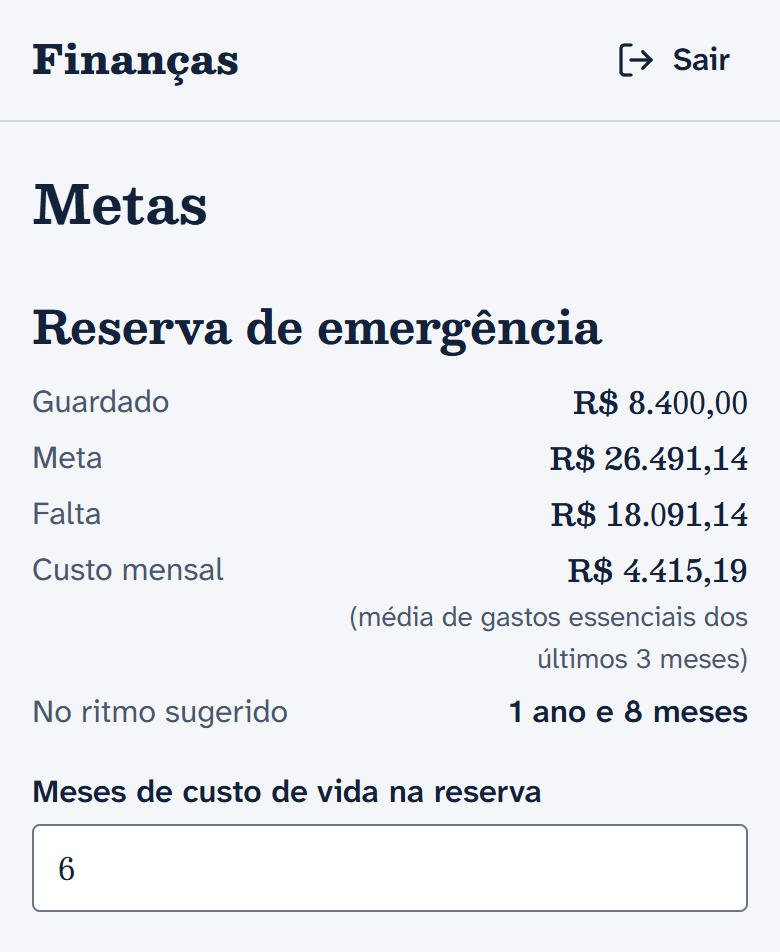
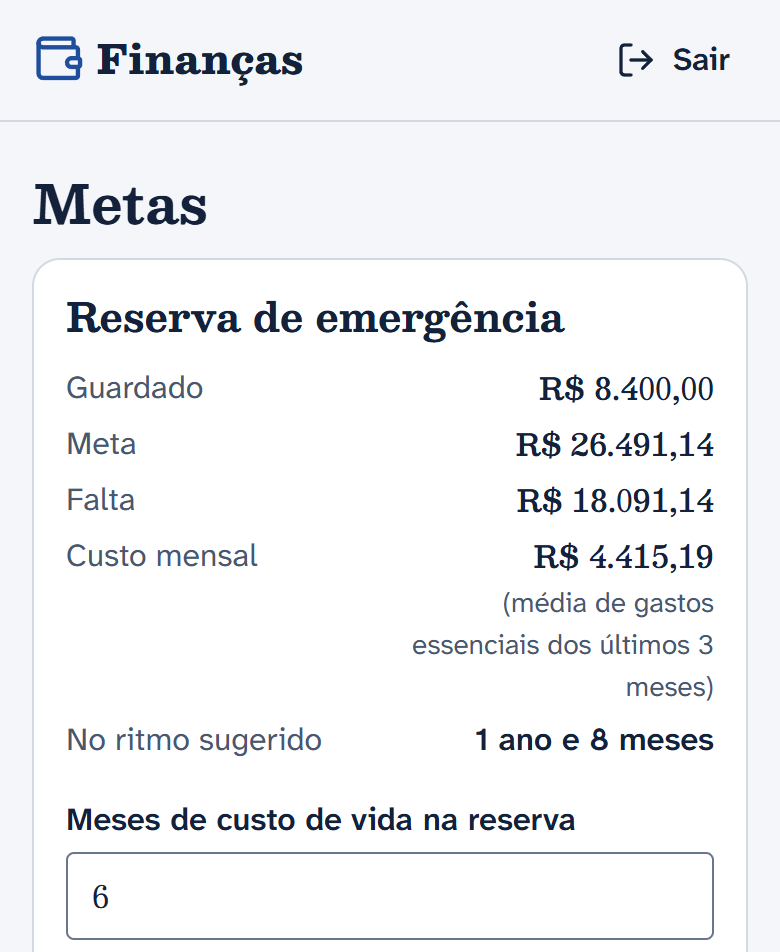
Registra o menu lateral e os painéis na documentação e refaz as capturas
As capturas do README e a descrição do visual ainda mostravam o menu no
topo e a tela sem painéis.

- docs/img: as oito capturas refeitas com os dados de exemplo, no mesmo
  enquadramento, nos temas claro e escuro, agora com o menu lateral, o
  cartão de saldo e os painéis.
- README: a seção "Visual" descreve painéis, cartão, menu lateral e
  barra do celular; o texto alternativo da captura da visão geral
  acompanha a tela nova.
- plano.md: seção "Menu lateral e painéis", com as três opções
  mostradas, a escolha, os tokens novos, o contraste medido e a
  verificação (270 testes JUnit e 35 de JavaScript, roteiros no
  Chrome, Lighthouse no celular e no computador, /security-review sem
  achados).
- entrega-final.md: resumo da mudança com os commits.

diff --git a/docs/plano.md b/docs/plano.md
@@ -324,3 +324,46 @@ Você achou que as cores do livro-caixa esverdeado não ficaram boas, preferiu t
 - As capturas do README (`docs/img`) foram refeitas com o mesmo enquadramento, nos dois temas.
 - `/security-review` sem achados.
 - Testado só no Chrome.
+
+## Menu lateral e painéis (14/10/2026)
+Você pediu o menu do lado esquerdo e botões mais estilizados, e disse que ainda achava o app "muito simples". A causa principal era a regra "hierarquia sem caixas", que você tinha mantido na "Noite azul": nada separava as partes da tela além de linhas finas.
+- Três estilos foram aplicados nas telas de verdade, todos já com o menu lateral, e comparados lado a lado numa página local: "A · Painéis", "B · Cartão de saldo" e "C · Painéis + cartão". Você escolheu a **C** e manteve a barra embaixo no celular (a outra opção era uma gaveta à esquerda).
+- A regra do CLAUDE.md mudou: hierarquia por tamanho, peso e espaço, com painéis só para agrupar partes da tela, de pesos diferentes, com borda fina e sem sombra. Continuam proibidos a grade de cards iguais com sombra e ícone em círculo, o degradê e o glassmorphism.
+
+**Menu lateral** (`e49b62f`):
+- A partir de 1024 px, o cabeçalho vira um menu fixo à esquerda (15rem), da altura da janela, com fundo um tom abaixo do da página. As telas ficam em três grupos com nome ("O mês": visão geral, lançamentos e contas fixas; "Planejar": planejamento, metas e histórico; "Investir": investimentos e simulador), Ajustes separado e "Sair" no pé.
+- Cada tela tem um ícone do Lucide (lucide-static 1.56.0) ao lado do nome. A tela atual ganha fundo azul suave, a cor de destaque e um traço à esquerda.
+- No celular nada muda além dos ícones na folha "Mais".
+
+**Visão geral** (`948bc78`):
+- Os três números ficam lado a lado no topo. Uma container query no próprio bloco decide quando (34rem ou mais), e o tamanho dos números acompanha a largura dele (`cqi`), para caber também em 1024 px com o menu.
+- Embaixo, duas colunas a partir de 76rem: pendências e gastos por categoria à esquerda; registrar um gasto, o resumo do mês e os potes à direita. A coluna da direita vem antes no HTML, para o celular mostrar o formulário logo depois dos números; `grid-auto-flow: dense` põe as duas na mesma linha.
+- Na coluna estreita, cada pendência ocupa duas linhas. A coluna "Limite" só aparece quando alguma categoria tem limite.
+
+**Painéis, cartão e botões** (`f3c14a5`):
+- Painéis um tom acima do fundo, com borda fina e cantos de 14px, sem sombra, nas seções, formulários, tabelas e gráficos que estão direto na página. A regra usa `:where()`, sem peso, para as margens próprias e o traço azul de "Registrar um gasto" continuarem valendo.
+- Cartão de saldo azul-cobalto (`#1d4f99`), igual nos dois temas, com o traço duplo sob o saldo.
+- Botões com cantos de 10px: a ação principal cheia; as outras com fundo azul suave; "Sair" e "Pago" só ganham fundo com o mouse em cima; o de apagar com fundo vermelho suave, que ganha borda com o mouse (escurecer o fundo derrubava o contraste para 4,1:1 no claro). Os meses vizinhos viraram botões em pílula.
+
+**Tokens novos** (`static/css/tokens.css`):
+
+| Nome | Escuro (padrão) | Claro | Uso |
+|---|---|---|---|
+| `--surface` | `#11233f` | `#ffffff` | painéis |
+| `--sidebar-bg` | `#081428` | `#e9eef5` | menu lateral |
+| `--accent-soft` | destaque a 14% | destaque a 10% | botões secundários, item atual do menu |
+| `--accent-soft-strong` | destaque a 24% | destaque a 18% | botão secundário com o mouse em cima |
+| `--negative-soft` | vermelho a 14% | vermelho a 10% | botão de apagar |
+| `--card`, `--on-card`, `--on-card-muted`, `--negative-on-card` | `#1d4f99`, `#ffffff`, `#d3e4ff`, `#ffc9c4` | iguais | cartão de saldo |
+| `--sidebar`, `--radius-button`, `--radius-panel`, `--radius-card` | 15rem, 10px, 14px, 18px | iguais | tamanhos |
+
+- Contraste medido por script (WCAG AA), no pior fundo de cada caso. Escuro: painel com texto 14,0:1 e apoio 7,7:1; menu com apoio 9,0:1; botão secundário 5,8:1 (4,6:1 com o mouse); botão de apagar 5,4:1. Claro: painel com apoio 7,3:1; menu com apoio 6,2:1; botão secundário 5,9:1 (5,2:1 com o mouse); botão de apagar 4,8:1. Cartão: branco 8,0:1, rótulo 6,2:1 e o vermelho do saldo negativo 5,5:1. Não há nada focável dentro do cartão.
+
+**Verificação (14/10/2026):**
+- `./mvnw test`: 270 testes JUnit, todos passando (eram 268). Novos: o menu lateral em `NavigationTest` (grupos, as nove telas, um ícone por tela, tela atual) e a visão geral em `PagesRenderTest` (ordem das colunas no HTML, coluna "Limite" sumindo e voltando). Os 35 testes de JavaScript continuam passando.
+- Roteiros no Chrome contra o jar final: o do plano (15 verificações), o das funções novas (29), o da lista no celular (11), as 17 telas com dados de exemplo e um roteiro novo do menu lateral (14: pular para o conteúdo, contorno de foco no menu, tela atual marcada, menu preso ao rolar com "Sair" visível, os três números numa linha em 1024 px, sem rolagem horizontal em 1280 e 1024, barra de baixo só no celular). Sem erro de console, de CSP ou de rede. Os roteiros passaram a rolar o botão para o meio da tela antes de clicar: em 390 px o "Salvar" da edição abre atrás da barra de baixo, e o clique do roteiro caía em "Início". Uma pessoa rola antes de tocar.
+- Todas as 19 telas fotografadas em 1280 e 390 px e conferidas: sem rolagem horizontal.
+- Lighthouse 13.5.0, tema escuro, 3 execuções por tela. Celular: desempenho 99 a 100, acessibilidade 100 e CLS 0 nas 7 telas (cadastro, login, visão geral, lançamentos, simulador, investimentos e histórico). Computador, onde o menu lateral aparece: desempenho 100, acessibilidade 100 e CLS de 0,001 a 0,003 na visão geral, nos lançamentos e no histórico. O peso das telas logadas subiu de 8 a 9 KiB (a visão geral foi de 111 para 120 KiB), pelos ícones do menu e pelo CSS novo. Três execuções no celular (lançamentos, simulador e histórico) falharam por erro do próprio Lighthouse (NO_NAVSTART); a mediana usa as outras duas.
+- As capturas do README (`docs/img`) foram refeitas, agora com o menu lateral e os painéis.
+- `/security-review` sem achados.
+- Testado só no Chrome.

diff --git a/README.md b/README.md
@@ -8,7 +8,7 @@ Controle financeiro pessoal. Você registra os gastos do mês e o app responde t
 
 <picture>
   <source media="(prefers-color-scheme: dark)" srcset="docs/img/visao-geral-escuro.png">
-  <img src="docs/img/visao-geral-claro.png" alt="Visão geral do app na tela larga: quanto gastei, quanto sobra e quanto posso investir, o lançamento rápido e as pendências do mês">
+  <img src="docs/img/visao-geral-claro.png" alt="Visão geral do app na tela larga: o menu à esquerda, o cartão com quanto gastei, quanto sobra e quanto posso investir e, embaixo, as pendências, os gastos por categoria, o lançamento rápido e os potes">
 </picture>
 
 > [!NOTE]
@@ -156,9 +156,9 @@ docs/           plano, entrega final, auditoria, medições do Lighthouse e as c
 
 ### Visual
 
-A direção é a **noite azul**: fundo azul-marinho escuro, texto claro, um azul-céu de destaque e vermelho só para valor negativo. O tema claro (papel frio, tinta azul-marinho e azul-cobalto) e o automático, que segue o aparelho, ficam em Ajustes, guardados na conta. Os valores usam a fonte Besley com algarismos tabulares, e o saldo leva o traço duplo da contabilidade. No celular, a navegação fica numa barra embaixo, perto do polegar: Início, Lançamentos, Metas e "Mais".
+A direção é a **noite azul**: fundo azul-marinho escuro, texto claro, um azul-céu de destaque e vermelho só para valor negativo. O tema claro (papel frio, tinta azul-marinho e azul-cobalto) e o automático, que segue o aparelho, ficam em Ajustes, guardados na conta. Cada parte da tela fica num painel um tom acima do fundo, com borda fina e sem sombra, e os três números do topo ficam num cartão azul-cobalto. Os valores usam a fonte Besley com algarismos tabulares, e o saldo leva o traço duplo da contabilidade. Na tela larga, o menu fica fixo à esquerda, com as telas em três grupos ("O mês", "Planejar" e "Investir"). No celular, a navegação fica numa barra embaixo, perto do polegar: Início, Lançamentos, Metas e "Mais".
 
-Cor, tipografia e espaçamento ficam todos em [`tokens.css`](src/main/resources/static/css/tokens.css), e o resto do CSS só usa esses nomes. O plano de design está em [`docs/plano.md`](docs/plano.md), nas partes "Como a Fase 4 ficou" e "Noite azul".
+Cor, tipografia e espaçamento ficam todos em [`tokens.css`](src/main/resources/static/css/tokens.css), e o resto do CSS só usa esses nomes. O plano de design está em [`docs/plano.md`](docs/plano.md), nas partes "Como a Fase 4 ficou", "Noite azul" e "Menu lateral e painéis".
 
 ## Segurança
 

diff --git a/docs/entrega-final.md b/docs/entrega-final.md
@@ -202,3 +202,15 @@ Você achou que as cores não ficaram boas e preferiu tons de azul mais escuro. 
 | Planejado × realizado | Uma barra por pote, com "121% do planejado" escrito ao lado e aviso quando passa do plano. | `9c07a47` |
 
 Quando você reiniciar o app, a V4 roda no seu banco em `./data` e a sua conta passa a abrir no escuro.
+
+## Menu lateral e painéis (14/10/2026)
+
+Você pediu o menu do lado esquerdo e botões mais estilizados, e achava o app "muito simples". Entre três estilos aplicados nas telas de verdade, escolheu painéis com o cartão de saldo, e a regra "sem caixas" do CLAUDE.md mudou. Detalhes e decisões em `docs/plano.md`, seção "Menu lateral e painéis".
+
+| O quê | Como ficou | Commit |
+|---|---|---|
+| Menu lateral | Na tela larga, menu fixo à esquerda com ícones e as telas em três grupos. No celular continua a barra embaixo. | `e49b62f` |
+| Visão geral | Os três números lado a lado no topo e, embaixo, duas colunas sem o vazio da direita. A coluna "Limite" só aparece quando há limite. | `948bc78` |
+| Painéis, cartão e botões | Cada parte da tela num painel com borda fina, os números num cartão azul-cobalto, botões com cantos arredondados e fundo suave. | `f3c14a5` |
+
+Para ver no seu app, reinicie (Ctrl+C e rode de novo). Não há migração nova.
